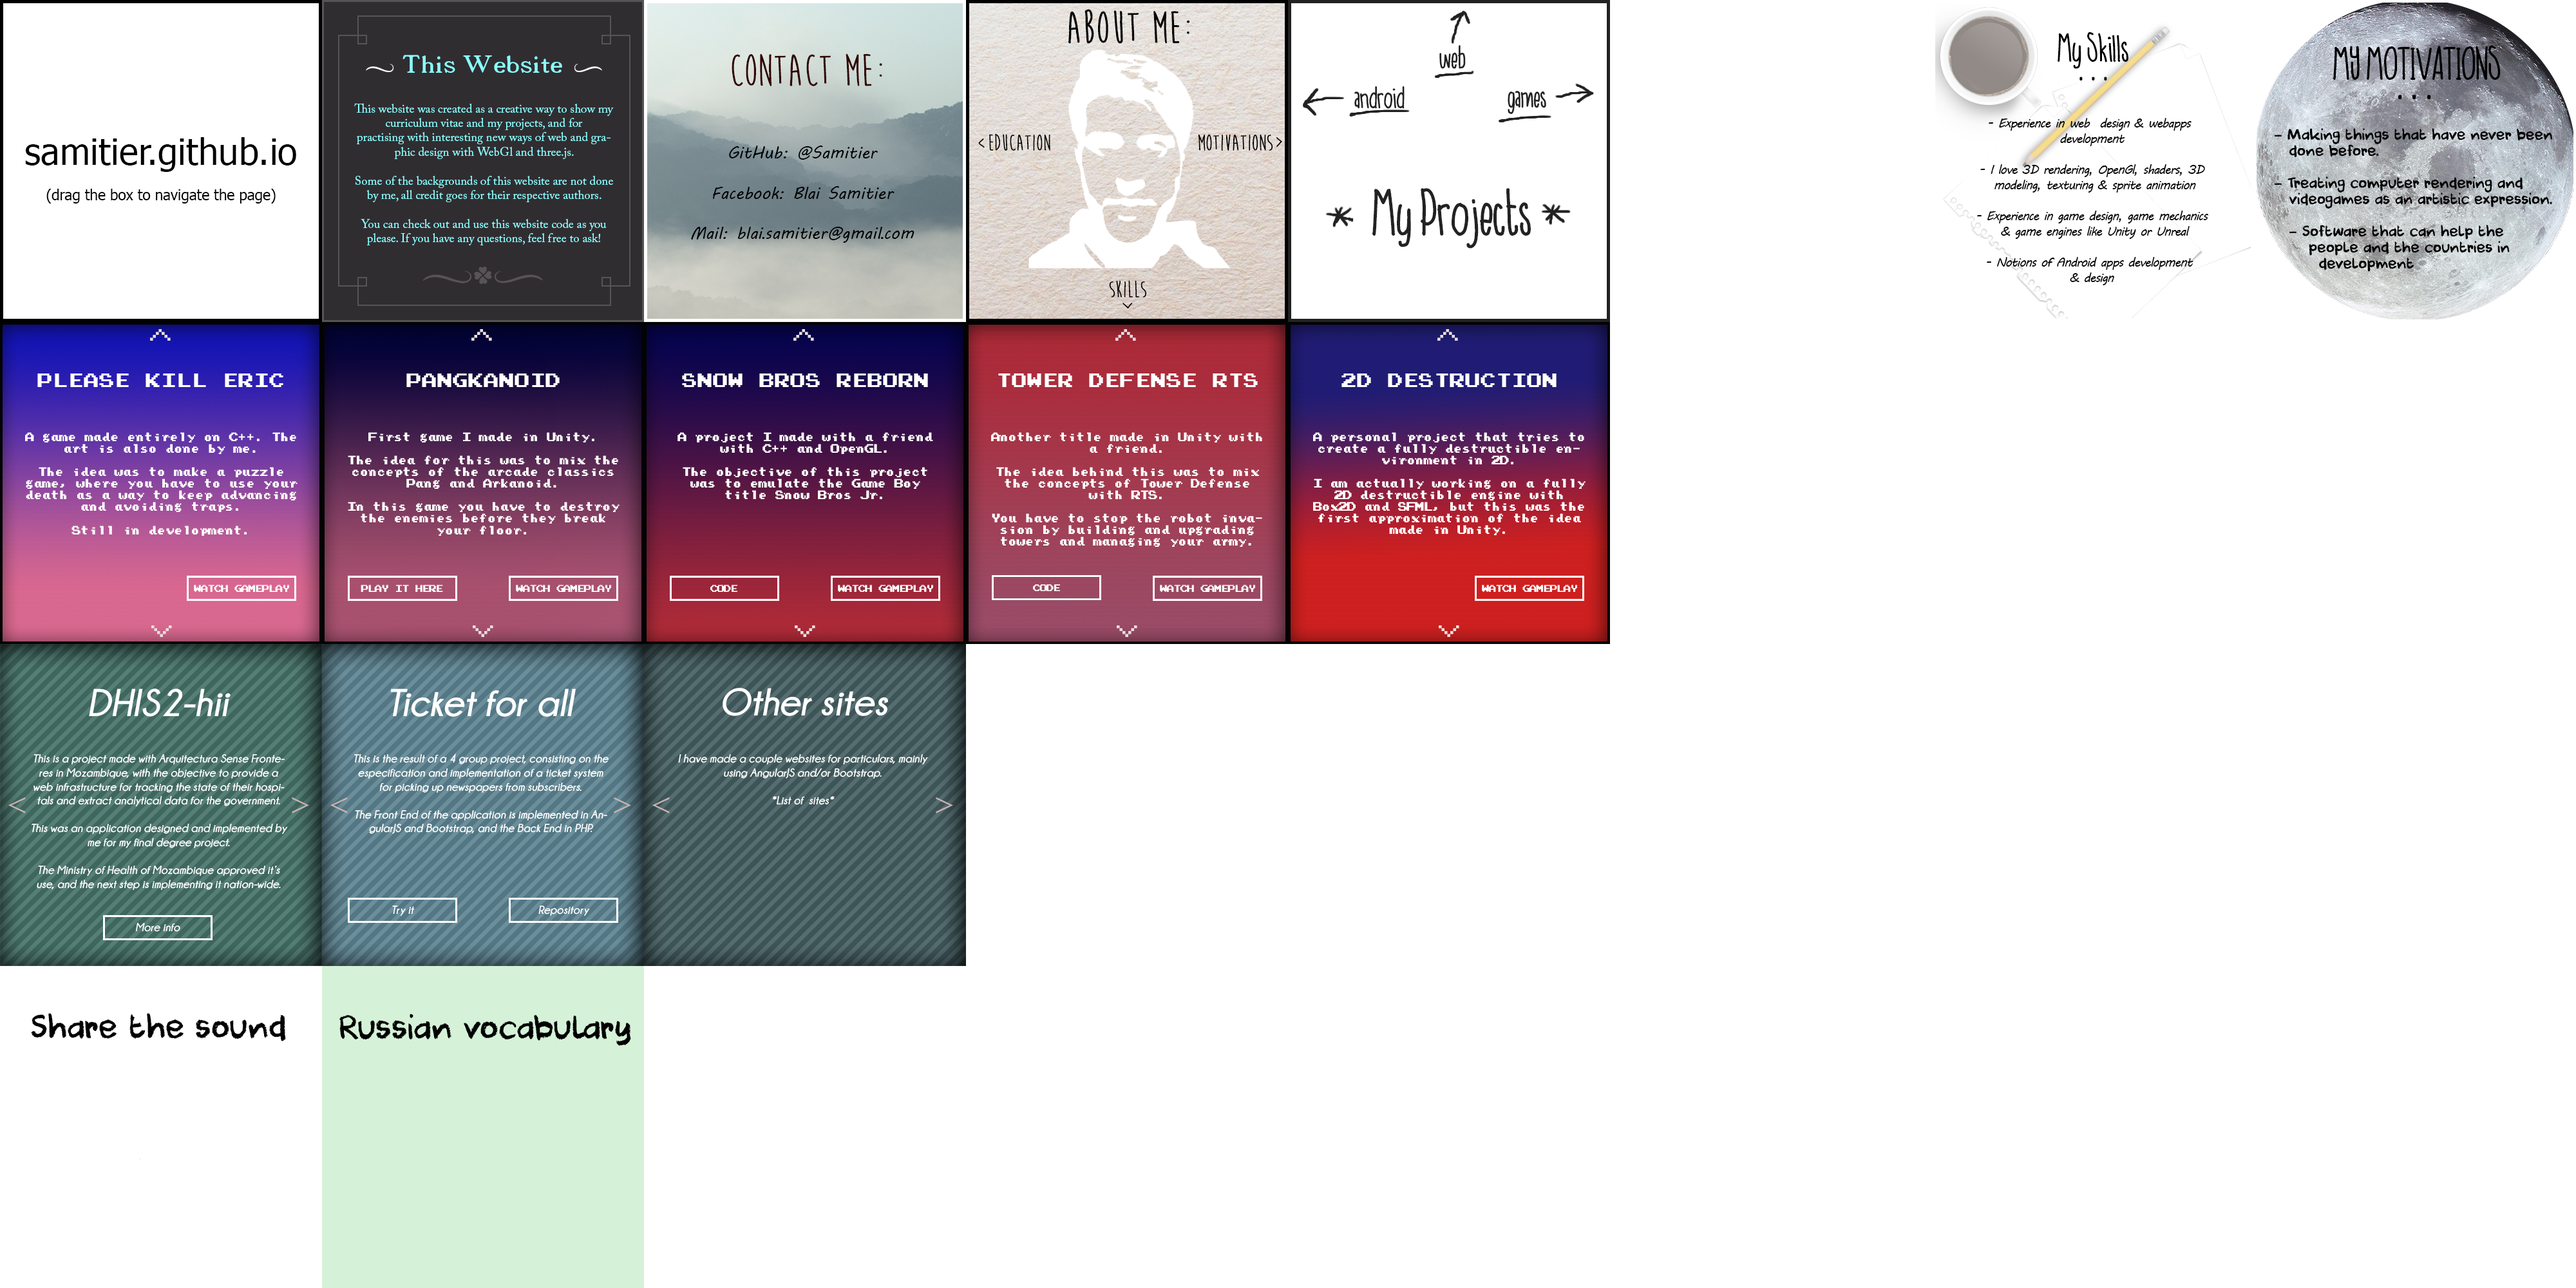
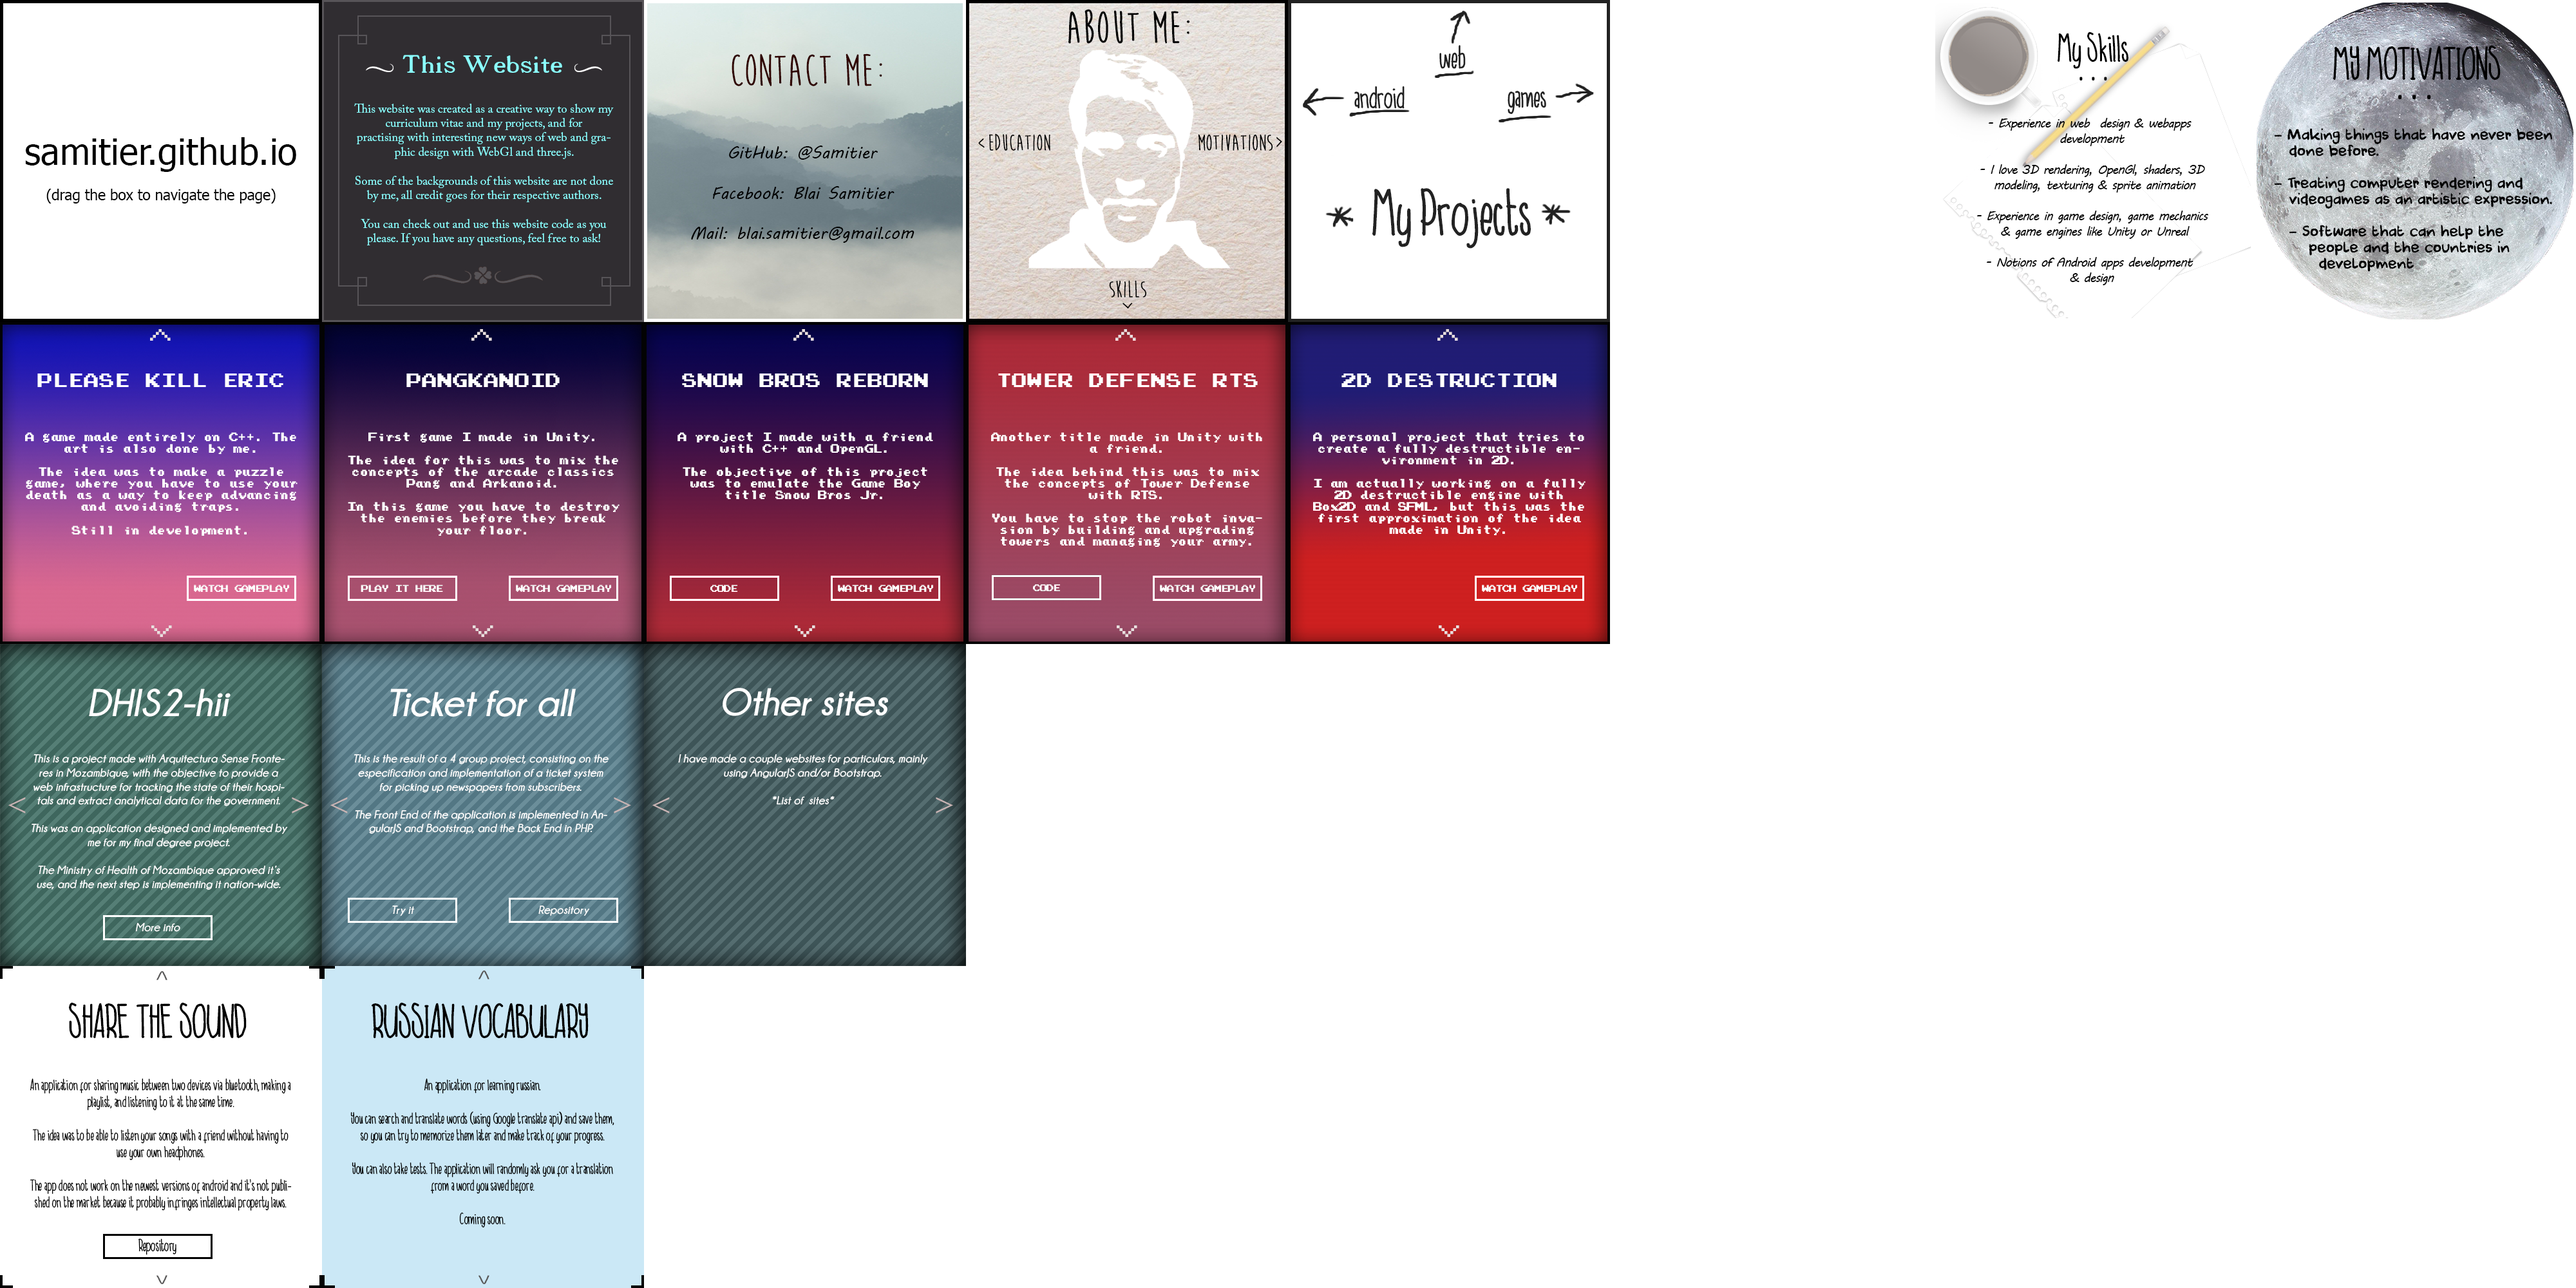
android pages

Changed region(s): [[0.0, 0.744, 0.25, 1.0], [0.0312, 0.837, 0.0938, 0.961]]

diff --git a/js/pages.js b/js/pages.js
@@ -17,7 +17,7 @@ var uv     = { main : [new THREE.Vector2(0, .75), new THREE.Vector2(.125, .75), 
                w2 : [new THREE.Vector2(.125, .25), new THREE.Vector2(.25, .25), new THREE.Vector2(.25, .5),new THREE.Vector2(.125, .5)],
                w3 : [new THREE.Vector2(.250, .25), new THREE.Vector2(.375, .25), new THREE.Vector2(.375, .5),new THREE.Vector2(.250, .5)],
 
-               a1 : [new THREE.Vector2(0, .0), new THREE.Vector2(.125, .0), new THREE.Vector2(.125, .25),new THREE.Vector2(0, .25)],
+               a1 : [new THREE.Vector2(0, .0), new THREE.Vector2(.1249, .0), new THREE.Vector2(.1249, .25),new THREE.Vector2(0, .25)],
                a2 : [new THREE.Vector2(.125, .0), new THREE.Vector2(.25, .0), new THREE.Vector2(.25, .25),new THREE.Vector2(.125, .25)]
 
 
@@ -35,7 +35,7 @@ var bkgSkills = THREE.ImageUtils.loadTexture( 'img/bkg/bkgSkills.jpg');
 var bkgEducation = THREE.ImageUtils.loadTexture( 'img/bkg/bkgEducation.jpg');
 var bkgVj = THREE.ImageUtils.loadTexture( 'img/bkg/bkgVj.png');
 var bkgWb = THREE.ImageUtils.loadTexture( 'img/bkg/bkgWb.jpg');
-
+var bkgAndroid = THREE.ImageUtils.loadTexture( 'img/bkg/bkgAndroid.jpg');
 
 THREE.DefaultLoadingManager.onProgress = function ( item, loaded, total ) {
     document.getElementById("loadingText").innerHTML = "Loading: " + Math.round(loaded/total*100) + "%";
@@ -62,6 +62,6 @@ var navs = {   main:      {top : "projects",bottom : "me",   left : "website", r
                w2: {top : "main",   bottom : "projects", left : "w1",    right:"w3",      front: "w2",  background:bkgWb, buttons:[{height:0.073, width:0.34, x:0.08, y:-0.288, link:"https://github.com/ferranmarlet/ticketForAll"},{height:0.073, width:0.34, x:-0.42, y:-0.288, link:"http://ticketforall.herokuapp.com/"}]},
                w3: {top : "main",   bottom : "projects", left : "w2",    right:"w1",      front: "w3",  background:bkgWb},
 
-               a1: {top : "a2",   bottom : "a2", left : "main",    right:"projects",      front: "a1",  background:bkgMain},
-               a2: {top : "a1",   bottom : "a1", left : "main",    right:"projects",      front: "a2",  background:bkgMain},
+               a1: {top : "a2",   bottom : "a2", left : "main",    right:"projects",      front: "a1",  background:bkgMain, buttons:[{height:0.073, width:0.34, x:-0.178, y:-0.342, link:"https://github.com/Samitier/Share-the-Sound"}]},
+               a2: {top : "a1",   bottom : "a1", left : "main",    right:"projects",      front: "a2",  background:bkgAndroid},
 }
